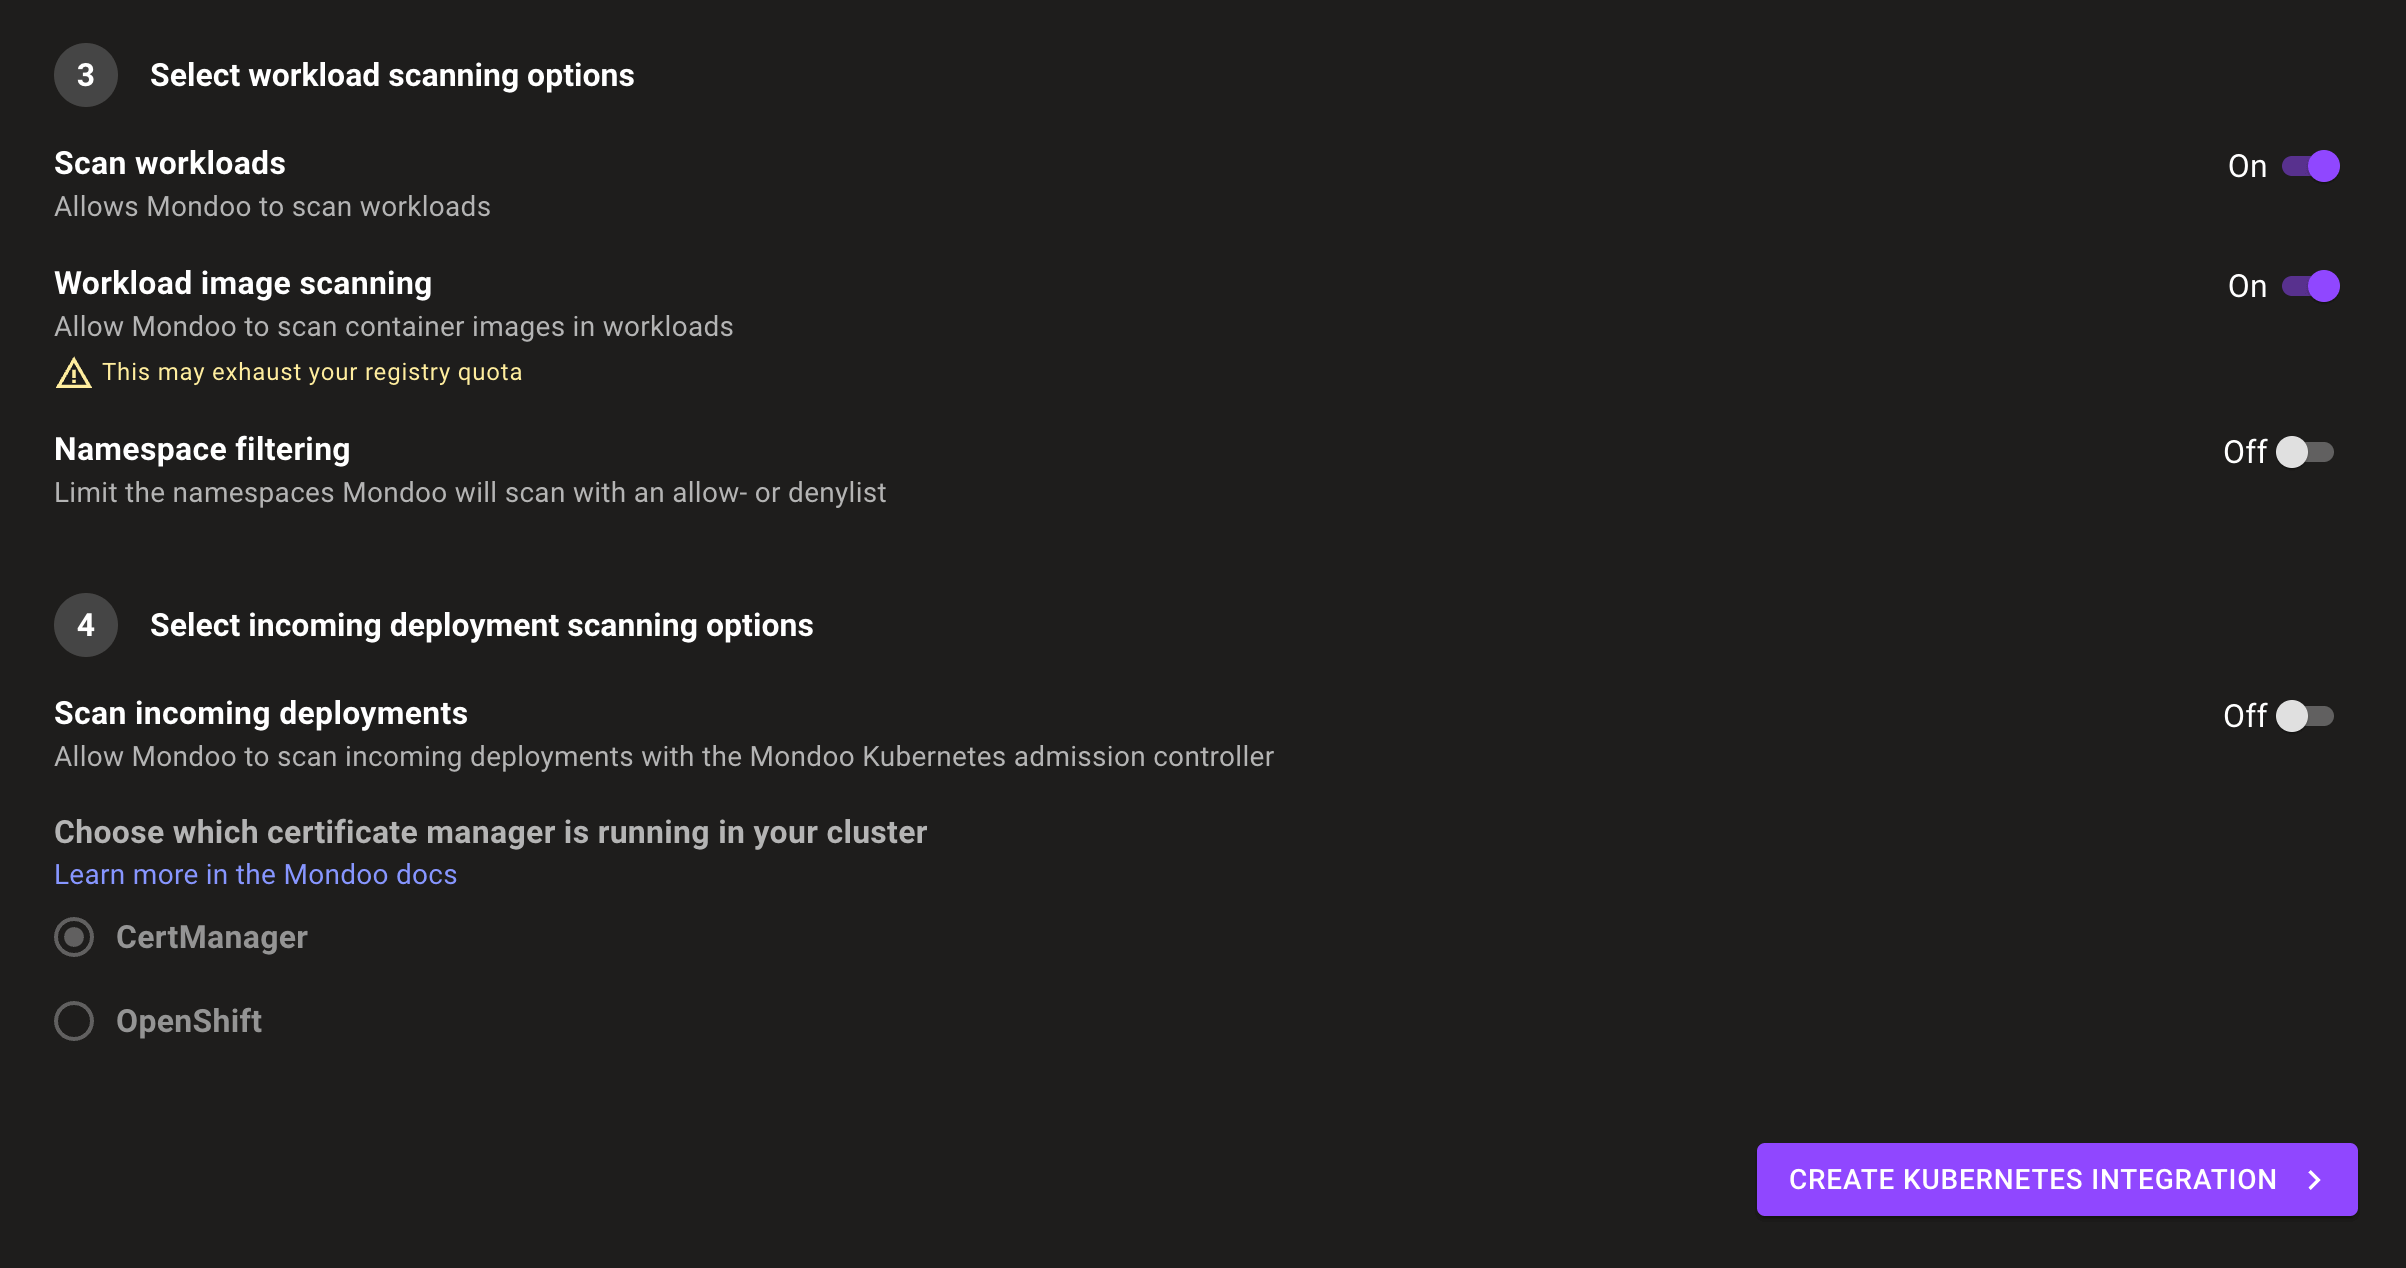
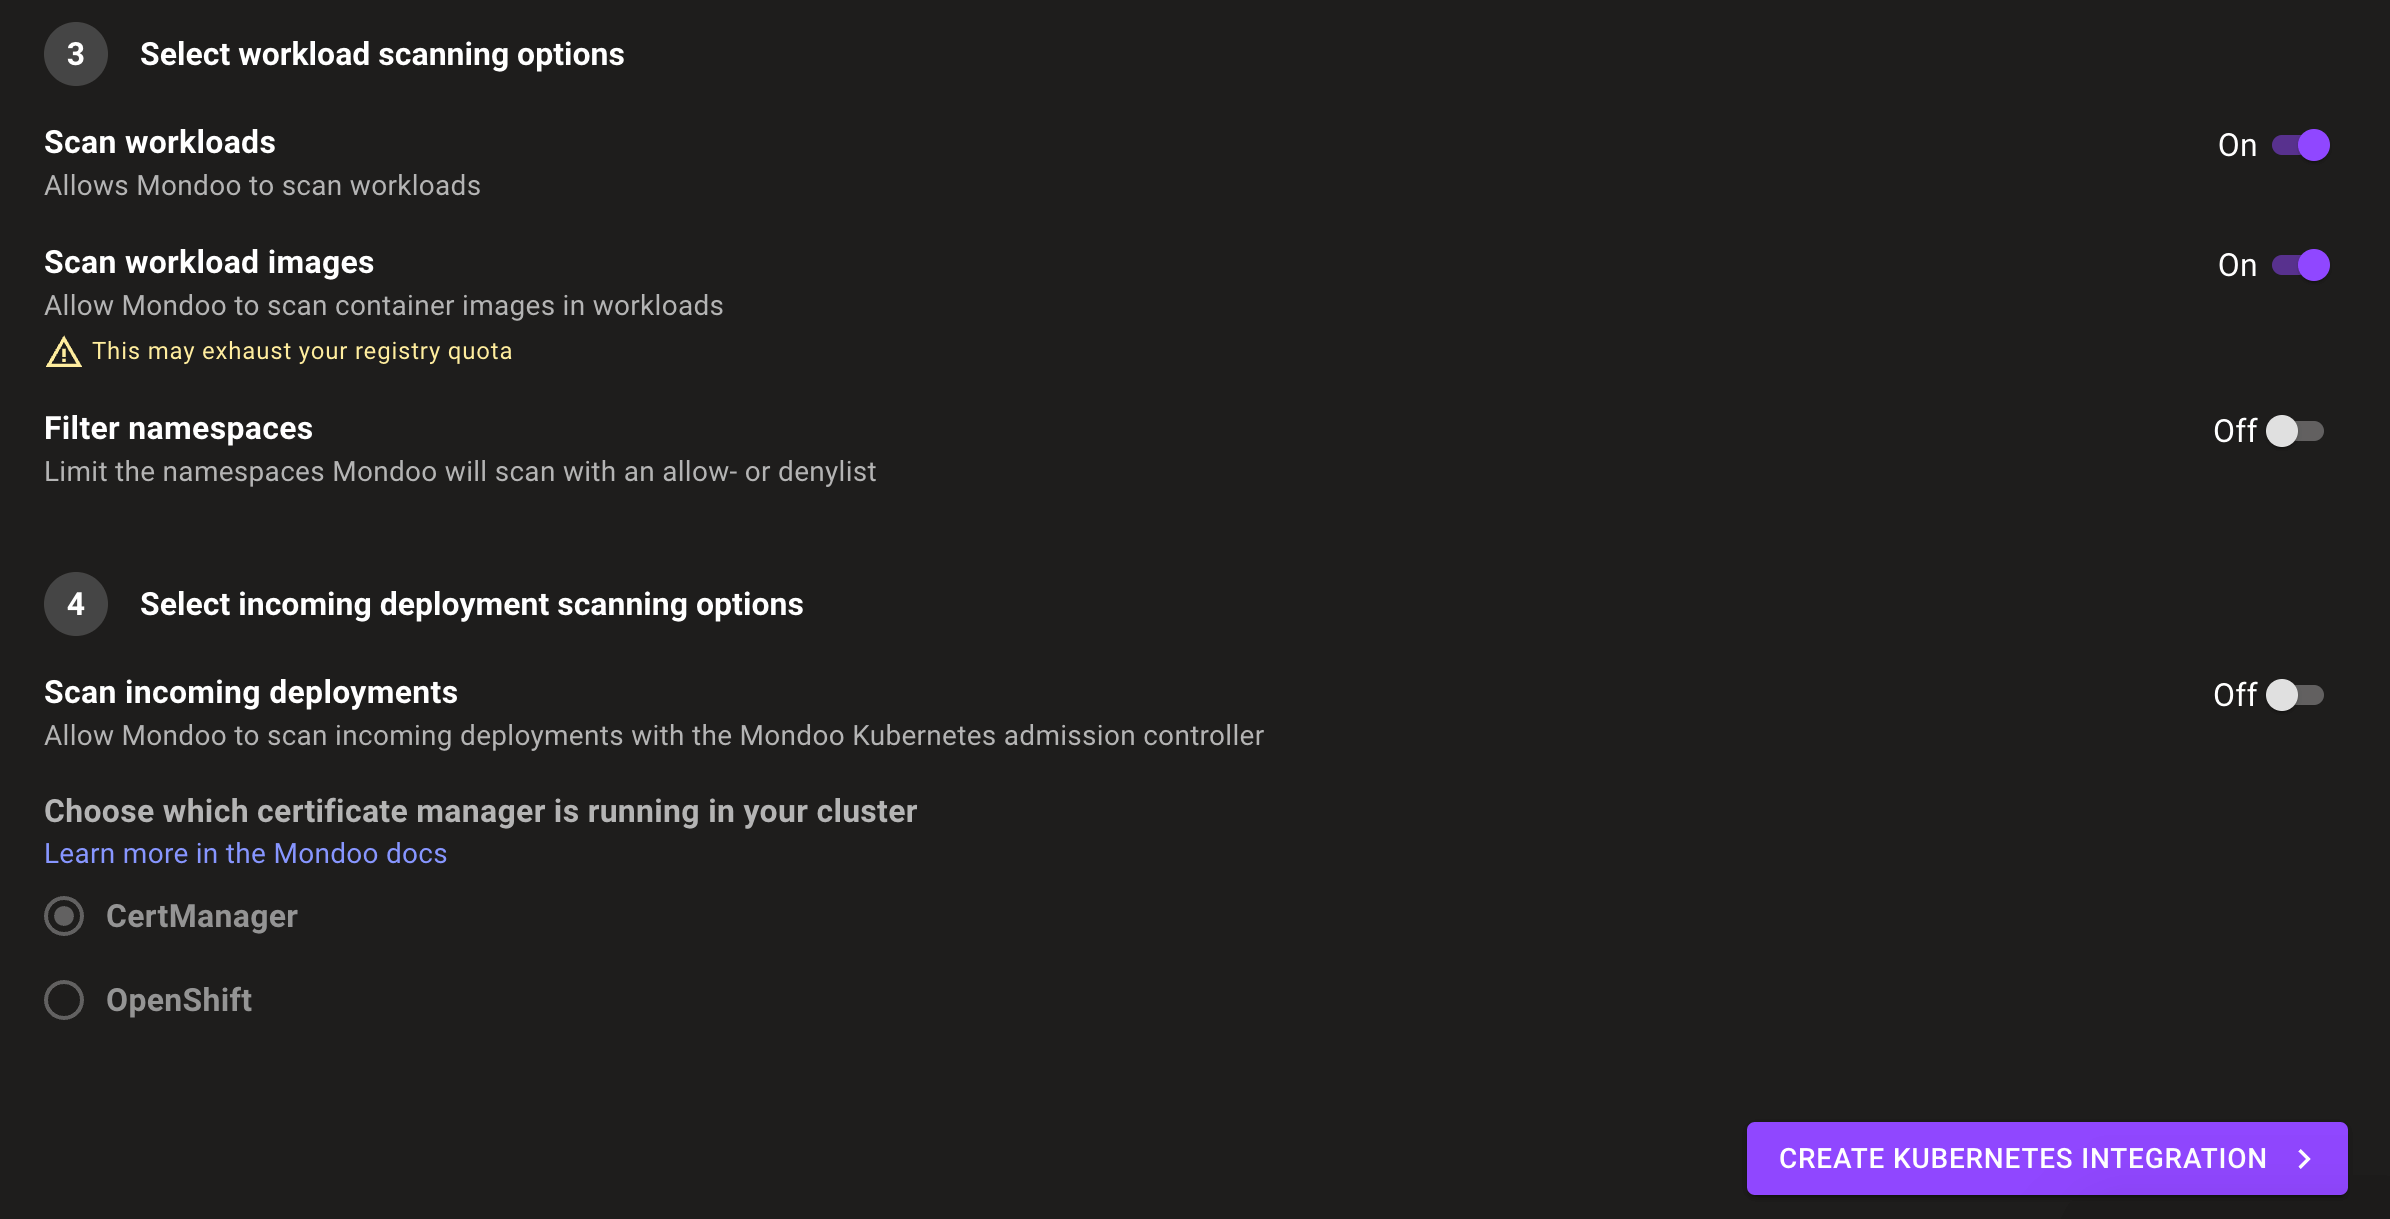
Reflect text changes to k8s integration (#277)

diff --git a/docs/platform/infra/cloud/kubernetes/scan-kubernetes-with-operator.md b/docs/platform/infra/cloud/kubernetes/scan-kubernetes-with-operator.md
@@ -5,7 +5,7 @@ description: This guide covers how you can continuously assess the security conf
 image: /img/featured_img/mondoo-kubernetes.jpg
 ---
 
-The Mondoo Kubernetes Operator is Mondoo software that runs in your Kubernetes environment. Working within your cluster, the Mondoo Operator can:
+The Mondoo Kubernetes Operator is Mondoo software that runs in your Kubernetes environment. Working within your cluster, the Mondoo Kubernetes Operator can:
 
 - Continuously scan nodes to assess security and identify vulnerabilities
 
@@ -21,7 +21,7 @@ import Partial from "../../../partials/_editor-owner.mdx";
 
 <Partial />{" "}
 
-To set up a Mondoo Kubernetes operator integration, access the Integrations > Add > GCP page in one of two ways:
+To set up a Mondoo Kubernetes Operator integration, access the Integrations > Add > GCP page in one of two ways:
 
 - New space setup: After creating a new Mondoo account or creating a new space, the initial setup guide welcomes you. Select **BROWSE INTEGRATIONS** and then select **Kubernetes**.
 
@@ -49,9 +49,9 @@ To set up a Mondoo Kubernetes operator integration, access the Integrations > Ad
 
    ![Kubernetes integration](/img/platform/infra/cloud/kubernetes/integration-setup-2.png)
 
-4. To scan container images, enable **Workload image scanning**.
+4. To scan container images, enable **Scan workload images**.
 
-5. To control which namespaces Mondoo scans, enable **Namespace filtering** and list the namespaces to which you want to allow or deny access.
+5. To control which namespaces Mondoo scans, enable **Filter namespaces** and list the namespaces to which you want to allow or deny access.
 
 6. To assess the security of every change applied to your Kubernetes cluster and display the results in the CI/CD view, enable **Scan incoming deployments**.
 
